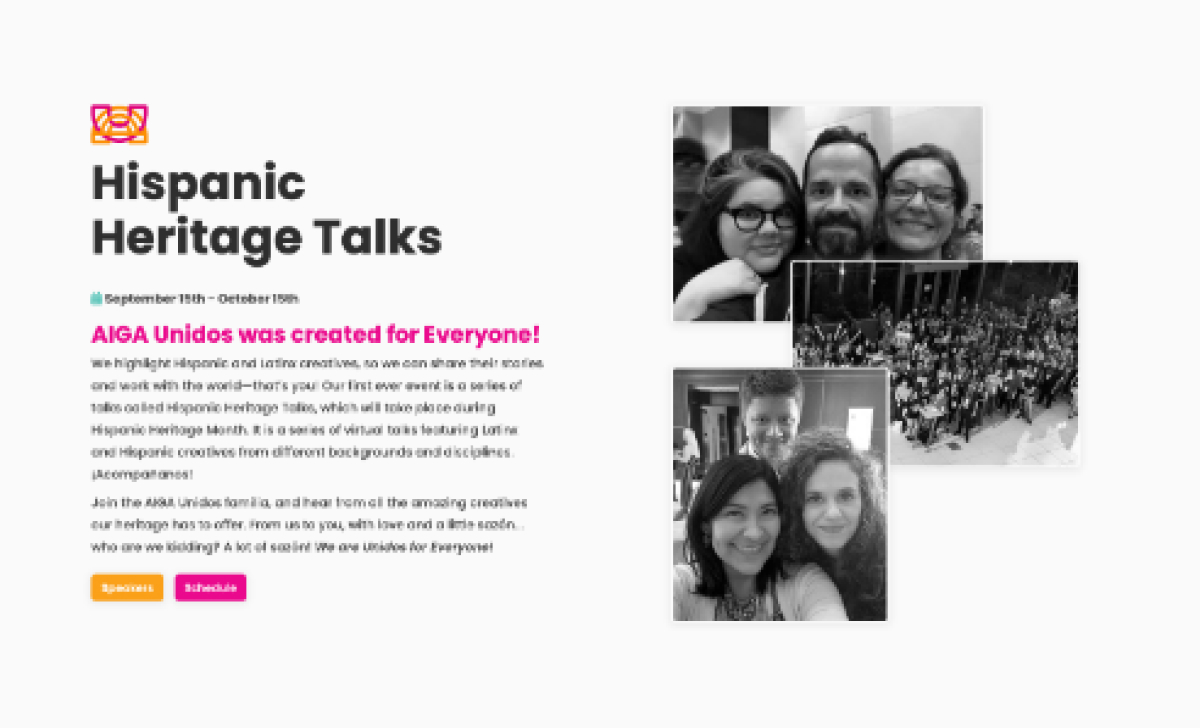
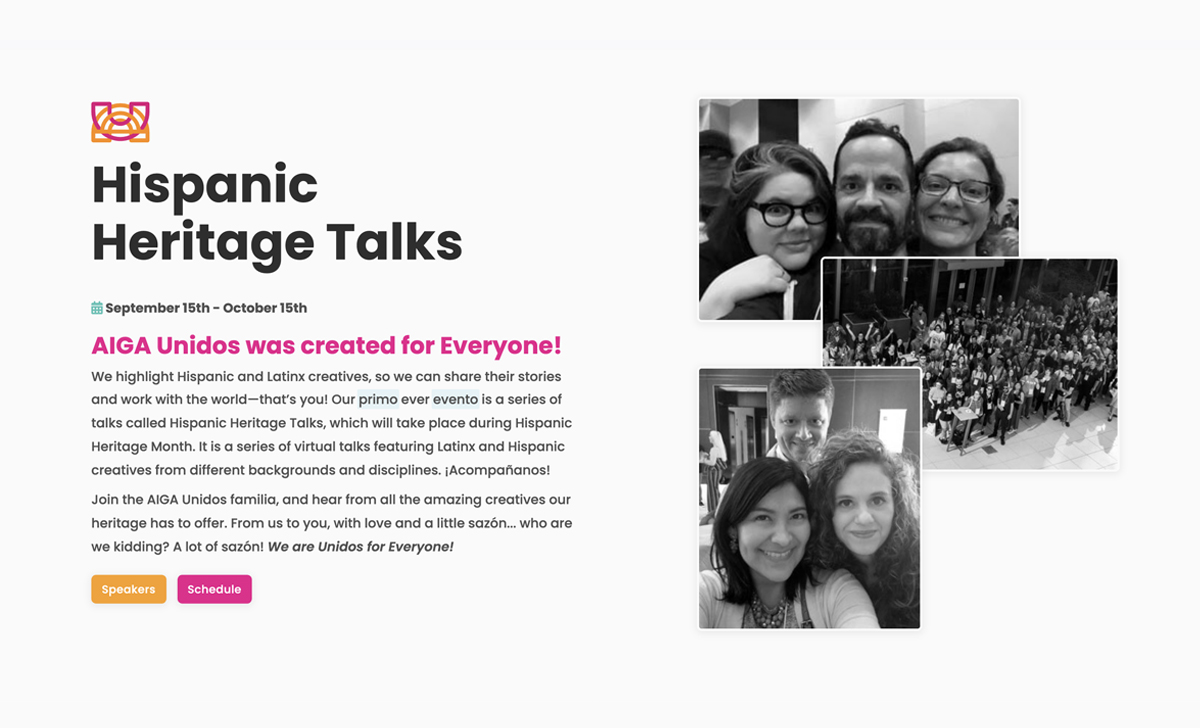
Fix: Update project images and decriptions

Changed region(s): [[0.555, 0.1209, 0.9558, 0.8764], [0.0617, 0.1209, 0.4933, 0.8462]]

diff --git a/projects/codes/codepen-miniprojects.md b/projects/codes/codepen-miniprojects.md
@@ -14,15 +14,41 @@ webLink: https://codepen.io/collection/XMkJEj?grid_type=grid&cursor=ZD0wJm89MCZw
 
 
 Through this code learning journey filled with articles, video tutorials, short courses, code exercises like [CodeWars](https://www.codewars.com/) and now [Scrimba's](https://scrimba.com/) career path applying the concepts in essential. In these series of CodePens and more to come, I take simple ideas and concepts learned and apply them to a simple use case.
-
 <section class="pen-grid">
+<div class="pen-grid-container">
+  <p class="codepen" data-height="550" data-theme-id="dark" data-default-tab="js,result" data-slug-hash="OJxxGbj" data-user="ximenavf92" style="height: 550px; box-sizing: border-box; display: flex; align-items: center; justify-content: center; border: 2px solid; margin: 1em 0; padding: 1em;">
+    <span>See the Pen <a href="https://codepen.io/ximenavf92/pen/OJxxGbj">
+    Tip Calculator</a> by Ximena (<a href="https://codepen.io/ximenavf92">@ximenavf92</a>)
+    on <a href="https://codepen.io">CodePen</a>.</span>
+  </p>
+</div>
+<div class="pen-grid-container">
+  <p class="codepen" data-height="550" data-theme-id="dark" data-default-tab="js,result" data-slug-hash="zYERQBQ" data-user="ximenavf92" style="height: 550px; box-sizing: border-box; display: flex; align-items: center; justify-content: center; border: 2px solid; margin: 1em 0; padding: 1em;">
+    <span>See the Pen <a href="https://codepen.io/ximenavf92/pen/zYERQBQ">
+    Pokedex – Cards – PokéApi</a> by Ximena (<a href="https://codepen.io/ximenavf92">@ximenavf92</a>)
+    on <a href="https://codepen.io">CodePen</a>.</span>
+  </p>
+</div>
+<div class="pen-grid-container">
+  <p class="codepen" data-height="550" data-theme-id="dark" data-default-tab="js,result" data-slug-hash="qBPxVLY" data-user="ximenavf92" style="height: 550px; box-sizing: border-box; display: flex; align-items: center; justify-content: center; border: 2px solid; margin: 1em 0; padding: 1em;">
+    <span>See the Pen <a href="https://codepen.io/ximenavf92/pen/qBPxVLY">
+    Harry Potter Characters</a> by Ximena (<a href="https://codepen.io/ximenavf92">@ximenavf92</a>)
+    on <a href="https://codepen.io">CodePen</a>.</span>
+  </p>
+</div>
 <div class="pen-grid-container">
   <p class="codepen" data-height="550" data-theme-id="dark" data-default-tab="js,result" data-user="xvilaf-1471456961" data-slug-hash="NWRaBvL" style="height: 550px; box-sizing: border-box; display: flex; align-items: center; justify-content: center; border: 2px solid; margin: 1em 0; padding: 1em;" data-pen-title="FizzBuzz Test">
     <span>See the Pen <a href="https://codepen.io/xvilaf-1471456961/pen/NWRaBvL">
     FizzBuzz Test</a> by Ximena (<a href="https://codepen.io/xvilaf-1471456961">@xvilaf-1471456961</a>)
     on <a href="https://codepen.io">CodePen</a>.</span>
   </p>
-  <script async src="https://cpwebassets.codepen.io/assets/embed/ei.js"></script>
+</div>
+<div class="pen-grid-container">
+  <p class="codepen" data-height="550" data-theme-id="dark" data-default-tab="js,result" data-slug-hash="BaQQyKX" data-user="ximenavf92" style="height: 550px; box-sizing: border-box; display: flex; align-items: center; justify-content: center; border: 2px solid; margin: 1em 0; padding: 1em;">
+    <span>See the Pen <a href="https://codepen.io/ximenavf92/pen/BaQQyKX">
+    Simple Coffee Counter</a> by Ximena (<a href="https://codepen.io/ximenavf92">@ximenavf92</a>)
+    on <a href="https://codepen.io">CodePen</a>.</span>
+  </p>
 </div>
 <div class="pen-grid-container">
   <p class="codepen" data-height="550" data-theme-id="dark" data-default-tab="js,result" data-user="xvilaf-1471456961" data-slug-hash="rNWYQry" style="height: 550px; box-sizing: border-box; display: flex; align-items: center; justify-content: center; border: 2px solid; margin: 1em 0; padding: 1em;" data-pen-title="Simple To Do List">
@@ -30,7 +56,6 @@ Through this code learning journey filled with articles, video tutorials, short 
     Simple To Do List</a> by Ximena (<a href="https://codepen.io/xvilaf-1471456961">@xvilaf-1471456961</a>)
     on <a href="https://codepen.io">CodePen</a>.</span>
   </p>
-  <script async src="https://cpwebassets.codepen.io/assets/embed/ei.js"></script>
 </div>
 <div class="pen-grid-container">
   <p class="codepen" data-height="550" data-theme-id="dark" data-default-tab="js,result" data-user="xvilaf-1471456961" data-slug-hash="zYoKgoE" style="height: 550px; box-sizing: border-box; display: flex; align-items: center; justify-content: center; border: 2px solid; margin: 1em 0; padding: 1em;" data-pen-title="Change Font Size">
@@ -38,7 +63,6 @@ Through this code learning journey filled with articles, video tutorials, short 
     Change Font Size</a> by Ximena (<a href="https://codepen.io/xvilaf-1471456961">@xvilaf-1471456961</a>)
     on <a href="https://codepen.io">CodePen</a>.</span>
   </p>
-  <script async src="https://cpwebassets.codepen.io/assets/embed/ei.js"></script>
 </div>
 <div class="pen-grid-container">
   <p class="codepen" data-height="550" data-theme-id="dark" data-default-tab="js,result" data-user="xvilaf-1471456961" data-slug-hash="KKNNwgz" style="height: 550px; box-sizing: border-box; display: flex; align-items: center; justify-content: center; border: 2px solid; margin: 1em 0; padding: 1em;" data-pen-title="Change Background Color">
@@ -46,7 +70,6 @@ Through this code learning journey filled with articles, video tutorials, short 
     Change Background Color</a> by Ximena (<a href="https://codepen.io/xvilaf-1471456961">@xvilaf-1471456961</a>)
     on <a href="https://codepen.io">CodePen</a>.</span>
   </p>
-  <script async src="https://cpwebassets.codepen.io/assets/embed/ei.js"></script>
 </div>
 <div class="pen-grid-container">
   <p class="codepen" data-height="550" data-theme-id="dark" data-default-tab="css,result" data-user="xvilaf-1471456961" data-slug-hash="zYYvWaM" style="height: 550px; box-sizing: border-box; display: flex; align-items: center; justify-content: center; border: 2px solid; margin: 1em 0; padding: 1em;" data-pen-title="Thinking With Grid - Said Dokins">
@@ -54,6 +77,6 @@ Through this code learning journey filled with articles, video tutorials, short 
     Thinking With Grid - Said Dokins</a> by Ximena (<a href="https://codepen.io/xvilaf-1471456961">@xvilaf-1471456961</a>)
     on <a href="https://codepen.io">CodePen</a>.</span>
   </p>
-  <script async src="https://cpwebassets.codepen.io/assets/embed/ei.js"></script>
 </div>
 </section>
+<script async src="https://cpwebassets.codepen.io/assets/embed/ei.js"></script>

diff --git a/projects/designs/mindstream.md b/projects/designs/mindstream.md
@@ -11,17 +11,35 @@ webLink: https://mindstreamco.com/
 # githubLink: 
 ---
 
-Mindstream, higher education consultants, are in the process of pivoting their business model due to the pandemic. This is an ongoing project to slowly update the current website's design and content.
+Mindstream, higher education consultants, were in the process of pivoting their business model due to the pandemic. This was an ongoing project to gradually update the current website's design and content. 
+
+The first step was to update the overall styles of the site by cleaning up the fonts and colors with and updated home page look that reflects their new strategy that highlights their process and the value they can provide their existing and potential clients.  
 
 <div class="web-2up-grid">
-  <img src="/assets/img/projects/mindstream-old.jpg" alt="">
-  <img src="/assets/img/projects/mindstream-home-new.jpg" alt="">
+  <div>
+    <h2>Old home page design</h2>
+    <img src="/assets/img/projects/mindstream-old.jpg" alt="">
+  </div>
+  <div>
+    <h2>New home page design</h2>
+    <img src="/assets/img/projects/mindstream-home-new.jpg" alt="">
+  </div>
 </div>
+
+## Digital marketing campaigns landing pages
+
+In addition to the home page update, the first phase of the project included creating a series of landing pages for their digital marketing strategy comprised of emails and social media. 
 
 <div class="web-2up-grid">
   <img src="/assets/img/projects/mindstream-landing1.jpg" alt="">
   <img src="/assets/img/projects/mindstream-landing2.jpg" alt="">
 </div>
+
+<br />
+
+## Updating the home, part 2
+
+After the initial home page updated and initial campaigns, Mindstream refined their straegy to better serve their existing and potential clients. The next iteration of the home page had to reflect this pivot. We wanted to showcase their expertise in the different areas that schools can leverage to improve their situation during this uncertain time as well as set them a part by their unique diagnostic tools and processes. 
 
 <div class="web-2up-grid">
   <img src="/assets/img/projects/mindstream-home-update.jpg" alt="">

diff --git a/projects/designs/unidos.md b/projects/designs/unidos.md
@@ -24,9 +24,14 @@ We had to move quickly and with so many chapters involved we needed one site tha
 
 ![AIGA Unidos' website header](/assets/img/projects/unidos-onespeaker.jpg)
 
-We kept the design simple to highlight the colorful brand developed by Reina Castellanos from AIGA Orlando. After a few quick wireframes and Adobe XD mockups it was coding time, clock was ticking. We needed something fast and simple with an easy workflow that could handle quick updates to design and content as we working simultaneously with the event planning team.
+We kept the design simple to highlight the colorful brand developed by [Reina Castellanos](https://reinavsreina.com/) from [AIGA Orlando](https://orlando.aiga.org/). After a few quick wireframes and Adobe XD mockups it was coding time, clock was ticking. We needed something fast and simple with an easy workflow that could handle quick updates to design and content as we working simultaneously with the event planning team.
 
 ![AIGA Unidos' website header](/assets/img/projects/unidos-speakers.jpg)
+
+<div class="web-2up-grid">
+  <img src="/assets/img/projects/unidos-schedule.jpg" alt="">
+  <img src="/assets/img/projects/unidos-team-and-form.jpg" alt="">
+</div>
 
 It was a clear choice, we would be hosting with [Netlify](https://www.netlify.com/) for a quick and simple deploy workflow using git and GitHub as our version control. There was no need to deal with WordPress installs and plugins, we just needed something up quickly. [Eleventy](https://www.11ty.dev/) to the rescue. [Zach Leatherman's](https://twitter.com/zachleat) static site generator is zero-config yet flexible and with a powerful data model behind it. With 11ty we were able to quickly create templates using [Nunjucks](https://mozilla.github.io/nunjucks/templating.html), JSON and Markdown files to quickly populate the site with event and speaker info as it became available. 
 

diff --git a/projects/designs/sama.md b/projects/designs/sama.md
@@ -15,14 +15,14 @@ layout: layouts/design-projects.njk
 ## Who is SAMA?
 
 The San Antonio Manufacturers Association (SAMA) is a membership driven organization dedicated to strengthening San Antonio's local and regional manufacturing industry. Serving manufacturing for over 100 Years by supporting a thriving, unique industry through advocacy, workforce development, and networking. The voice of and advocate for the manufacturing industry in the greater San Antonio metropolitan area.
-<!-- ### SAMA's Goals
+### SAMA's Goals
 
 - Proactively monitor manufacturing related issues and participate in local government, ensuring city and regional officials and policy makers understand what’s important for manufacturers to thrive.
 - Promote manufacturing to enhance its perception by the public, schools, community and region.
 - Examine workforce and economic development issues with the aim to ensure that both sustain companies and our San Antonio and South Texas (7 counties).
 - Provide educational opportunities to benefit their members, employees and ensure the future labor pool will have the skills necessary to support growth in our manufacturing industry.
 - Host events that provide relevant information on key issues affecting business and create forums to build relationships across companies and industries.
-- Provide an annual South Texas Regional Manufacturers Trade Show and Conference -->
+- Provide an annual South Texas Regional Manufacturers Trade Show and Conference
 
 ## Project Overview
 

diff --git a/projects/designs/vicinia.md b/projects/designs/vicinia.md
@@ -14,14 +14,20 @@ webLink: https://viciniasa.com/
 
 VICINIA is a new 97-acre master-planned community with a true New Urbanist style, bringing a pedestrian-oriented, human-scale neighborhood to the city's booming far west side. VICINIA needed an informational site with their design guidelines to share with potential developers for the project. They were looking for a site that conveyed their idea in an early stage while providing key information to interested parties.
 
+## Home page
+
 <div class="web-2up-grid">
   <img src="/assets/img/projects/vicinia-home.jpg" alt="">
 </div>
+
+## Wireframing 
 
 <div class="web-2up-grid">
   <img src="/assets/img/projects/Vicinia-wireframes-1.jpg" alt="">
   <img src="/assets/img/projects/Vicinia-wireframes-2.jpg" alt="">
 </div>
+
+## Interior information pages
 
 <div class="web-2up-grid">
   <img src="/assets/img/projects/vicinia-interior-1.jpg" alt="">
